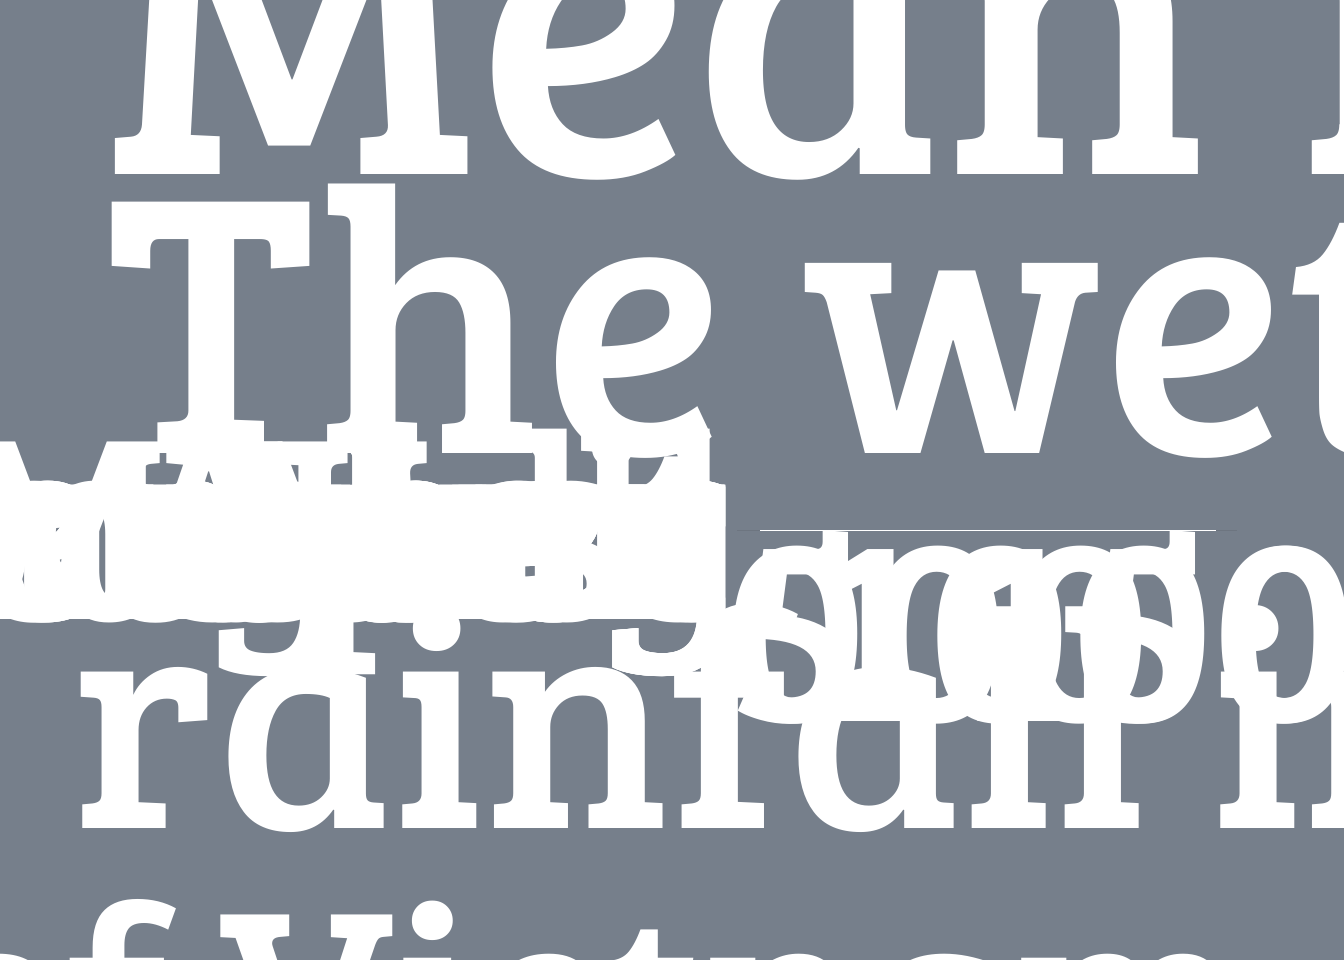
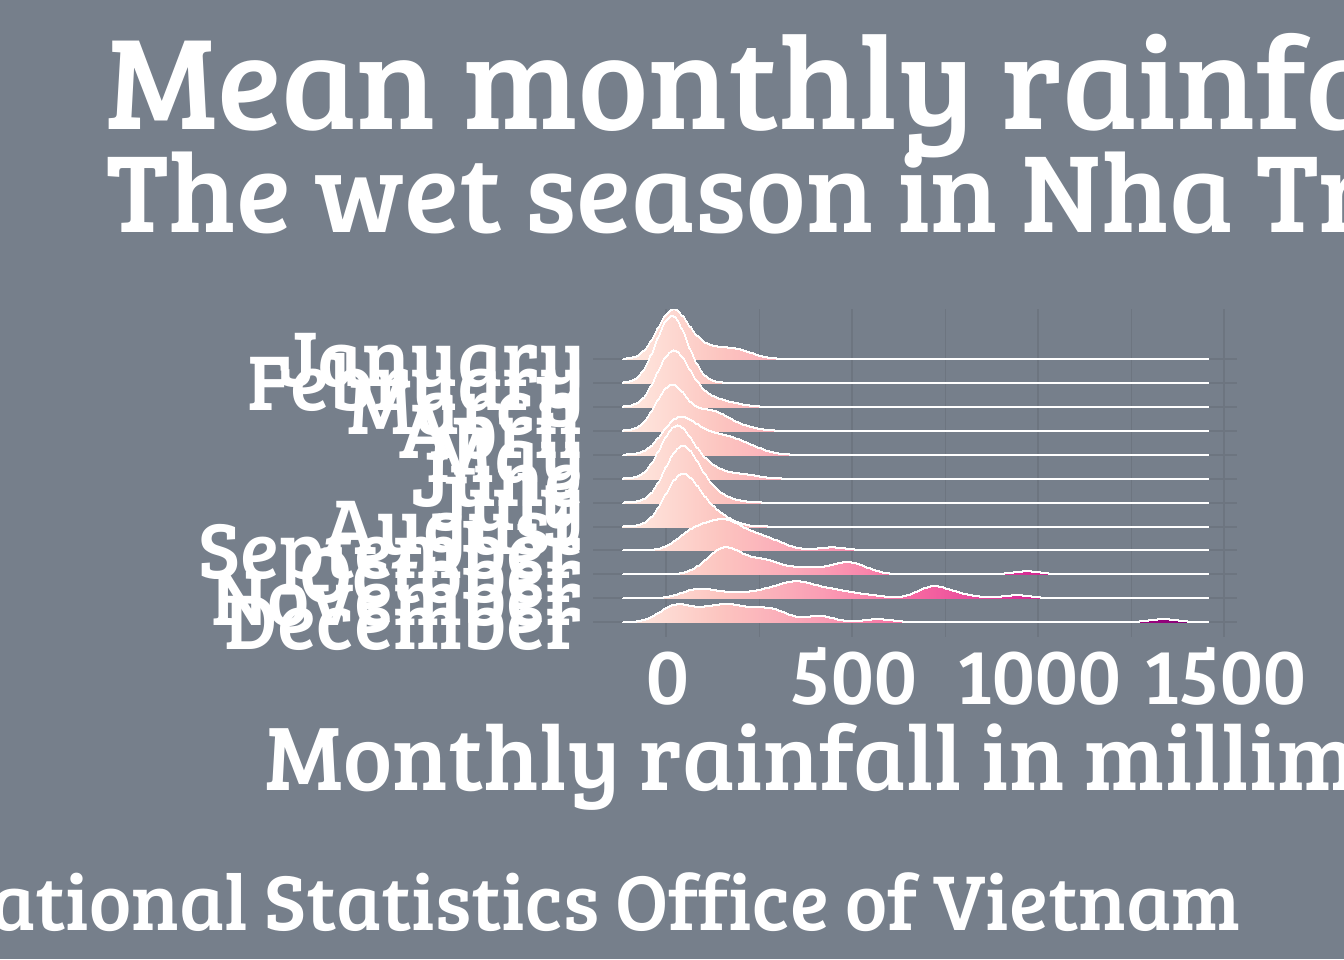
Update ridgeline plot

diff --git a/docs/blog/posts/vietnam-rainfall-ridgeline-plot/index.html b/docs/blog/posts/vietnam-rainfall-ridgeline-plot/index.html
@@ -544,15 +544,15 @@ Interpretation
 <span>    legend.position <span class="op">=</span> <span class="st">"none"</span></span>
 <span></span>
 <span>  <span class="op">)</span></span></code><button title="Copy to Clipboard" class="code-copy-button"><i class="bi"></i></button></pre></div>
-<div class="sourceCode" id="cb8"><pre class="downlit sourceCode r code-with-copy"><code class="sourceCode R"><span><span class="fu"><a href="https://rdrr.io/pkg/showtext/man/showtext_opts.html">showtext_opts</a></span><span class="op">(</span>dpi <span class="op">=</span> <span class="fl">320</span><span class="op">)</span> </span>
-<span> <span class="fu"><a href="https://ggplot2.tidyverse.org/reference/ggsave.html">ggsave</a></span><span class="op">(</span></span>
-<span>  <span class="st">"rainfall-vietnam-ridgeline_gradient.png"</span>,</span>
-<span>  dpi <span class="op">=</span> <span class="fl">320</span>,</span>
-<span>  width <span class="op">=</span> <span class="fl">15</span>,</span>
-<span>  height <span class="op">=</span> <span class="fl">11</span>,</span>
-<span>  units <span class="op">=</span> <span class="st">"in"</span></span>
-<span> <span class="op">)</span></span>
-<span><span class="fu"><a href="https://rdrr.io/pkg/showtext/man/showtext_auto.html">showtext_auto</a></span><span class="op">(</span><span class="cn">FALSE</span><span class="op">)</span></span></code><button title="Copy to Clipboard" class="code-copy-button"><i class="bi"></i></button></pre></div>
+<div class="sourceCode" id="cb8"><pre class="downlit sourceCode r code-with-copy"><code class="sourceCode R"><span><span class="co"># showtext_opts(dpi = 320) </span></span>
+<span><span class="co"># ggsave(</span></span>
+<span><span class="co">#  "rainfall-vietnam-ridgeline_gradient.png",</span></span>
+<span><span class="co">#  dpi = 320,</span></span>
+<span><span class="co">#  width = 15,</span></span>
+<span><span class="co">#  height = 11,</span></span>
+<span><span class="co">#  units = "in"</span></span>
+<span><span class="co"># )</span></span>
+<span><span class="co"># showtext_auto(FALSE)</span></span></code><button title="Copy to Clipboard" class="code-copy-button"><i class="bi"></i></button></pre></div>
 </div>
 <p><a href="rainfall-vietnam-ridgeline_gradient.png" class="lightbox" data-gallery="quarto-lightbox-gallery-2"><img src="rainfall-vietnam-ridgeline_gradient.png" class="img-fluid" style="margin-top: 0px; margin-bottom: 0px;;width:100.0%"></a></p>
 <div class="callout callout-style-default callout-important callout-titled">
@@ -999,7 +999,7 @@ window.document.addEventListener("DOMContentLoaded", function (event) {
 <p>Licensed under <br><a href="https://creativecommons.org/publicdomain/zero/1.0/" target="_blank"><i class="fa-brands fa-creative-commons" aria-label="creative-commons"></i><i class="fa-brands fa-creative-commons-by" aria-label="creative-commons-by"></i> Creative Commons Zero v1.0 Universal</a></p>
 </div>
   </div>
-</footer><script>var lightboxQuarto = GLightbox({"openEffect":"zoom","descPosition":"bottom","selector":".lightbox","loop":false,"closeEffect":"zoom"});
+</footer><script>var lightboxQuarto = GLightbox({"selector":".lightbox","closeEffect":"zoom","openEffect":"zoom","descPosition":"bottom","loop":false});
 window.onload = () => {
   lightboxQuarto.on('slide_before_load', (data) => {
     const { slideIndex, slideNode, slideConfig, player, trigger } = data;

diff --git a/docs/blog/index.html b/docs/blog/index.html
@@ -310,7 +310,7 @@ if (window.location.href.includes("index-es.html")) {
 
 <div class="quarto-listing quarto-listing-container-grid" id="listing-listing">
 <div class="list grid quarto-listing-cols-3">
-<div class="g-col-1" data-index="0" data-categories="data visualization,rainfall,tidyverse,ggplot2,ridgeline plot,Vietnam" data-listing-date-sort="1757916000000" data-listing-file-modified-sort="1758084880065" data-listing-date-modified-sort="NaN" data-listing-reading-time-sort="10" data-listing-word-count-sort="1875">
+<div class="g-col-1" data-index="0" data-categories="data visualization,rainfall,tidyverse,ggplot2,ridgeline plot,Vietnam" data-listing-date-sort="1757916000000" data-listing-file-modified-sort="1758085025467" data-listing-date-modified-sort="NaN" data-listing-reading-time-sort="10" data-listing-word-count-sort="1877">
 <a href="../blog/posts/vietnam-rainfall-ridgeline-plot/index.html" class="quarto-grid-link">
 <div class="quarto-grid-item card h-100 card-left">
 <p class="card-img-top">
